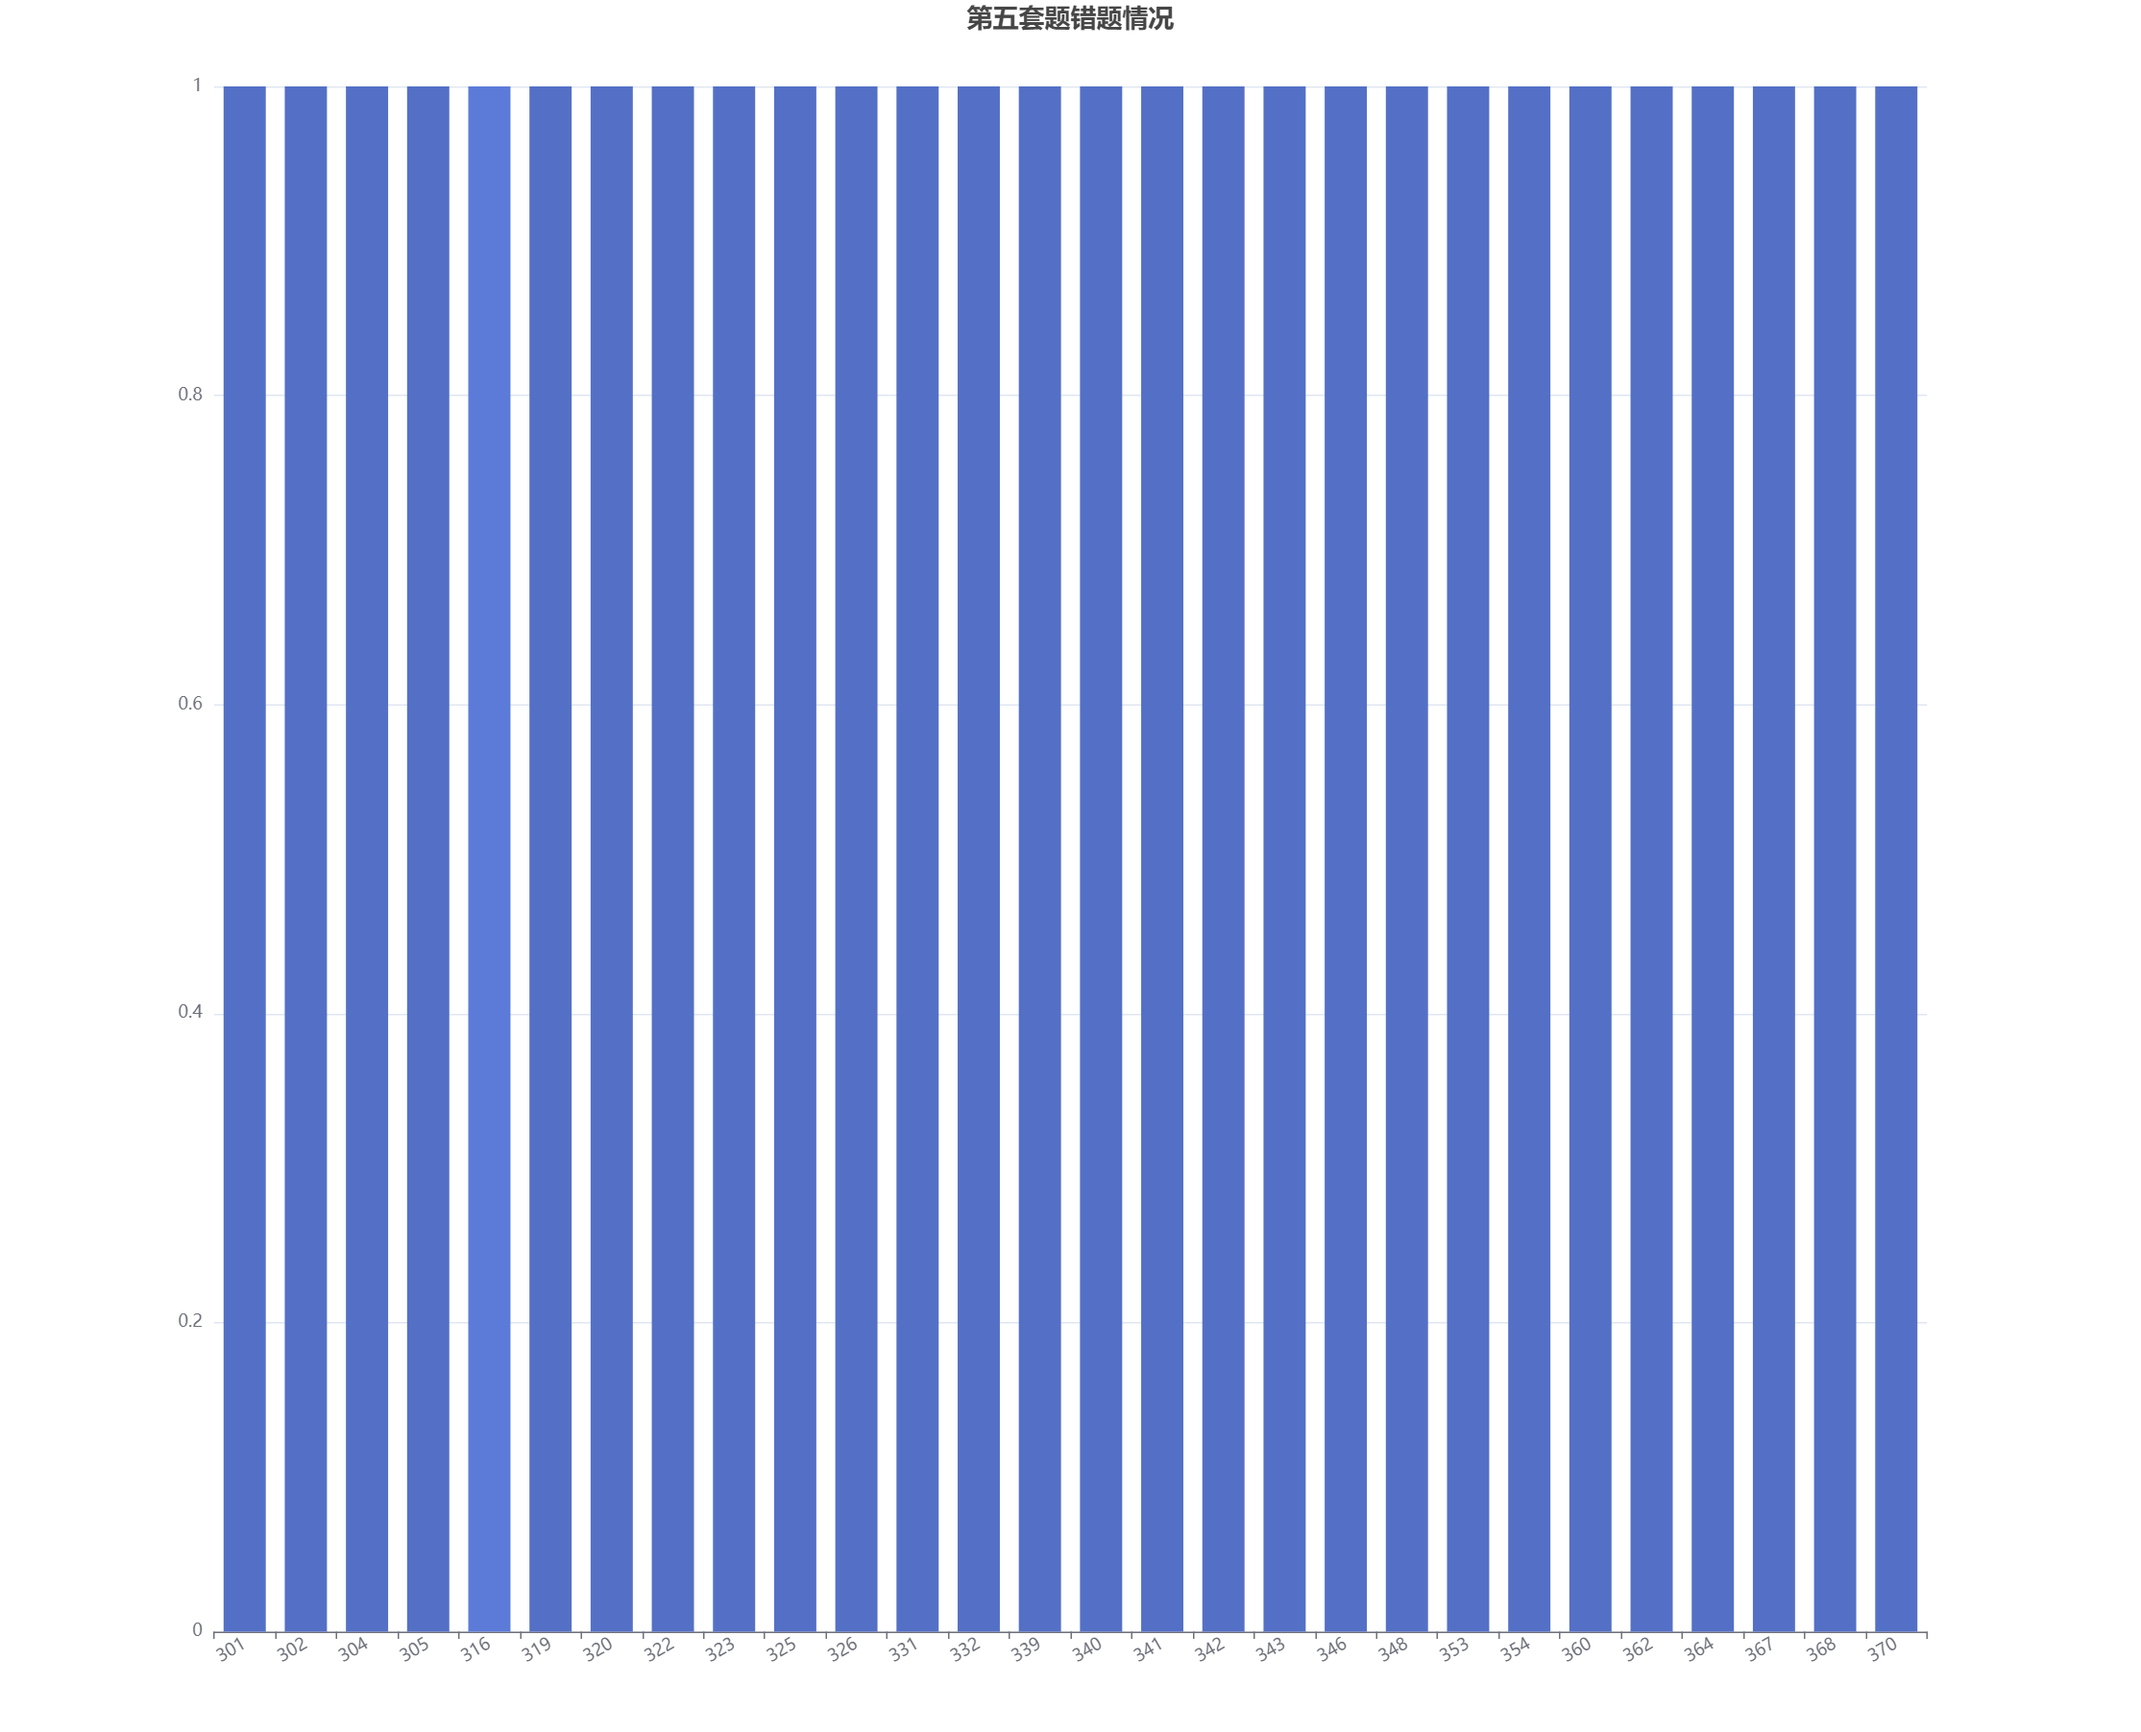
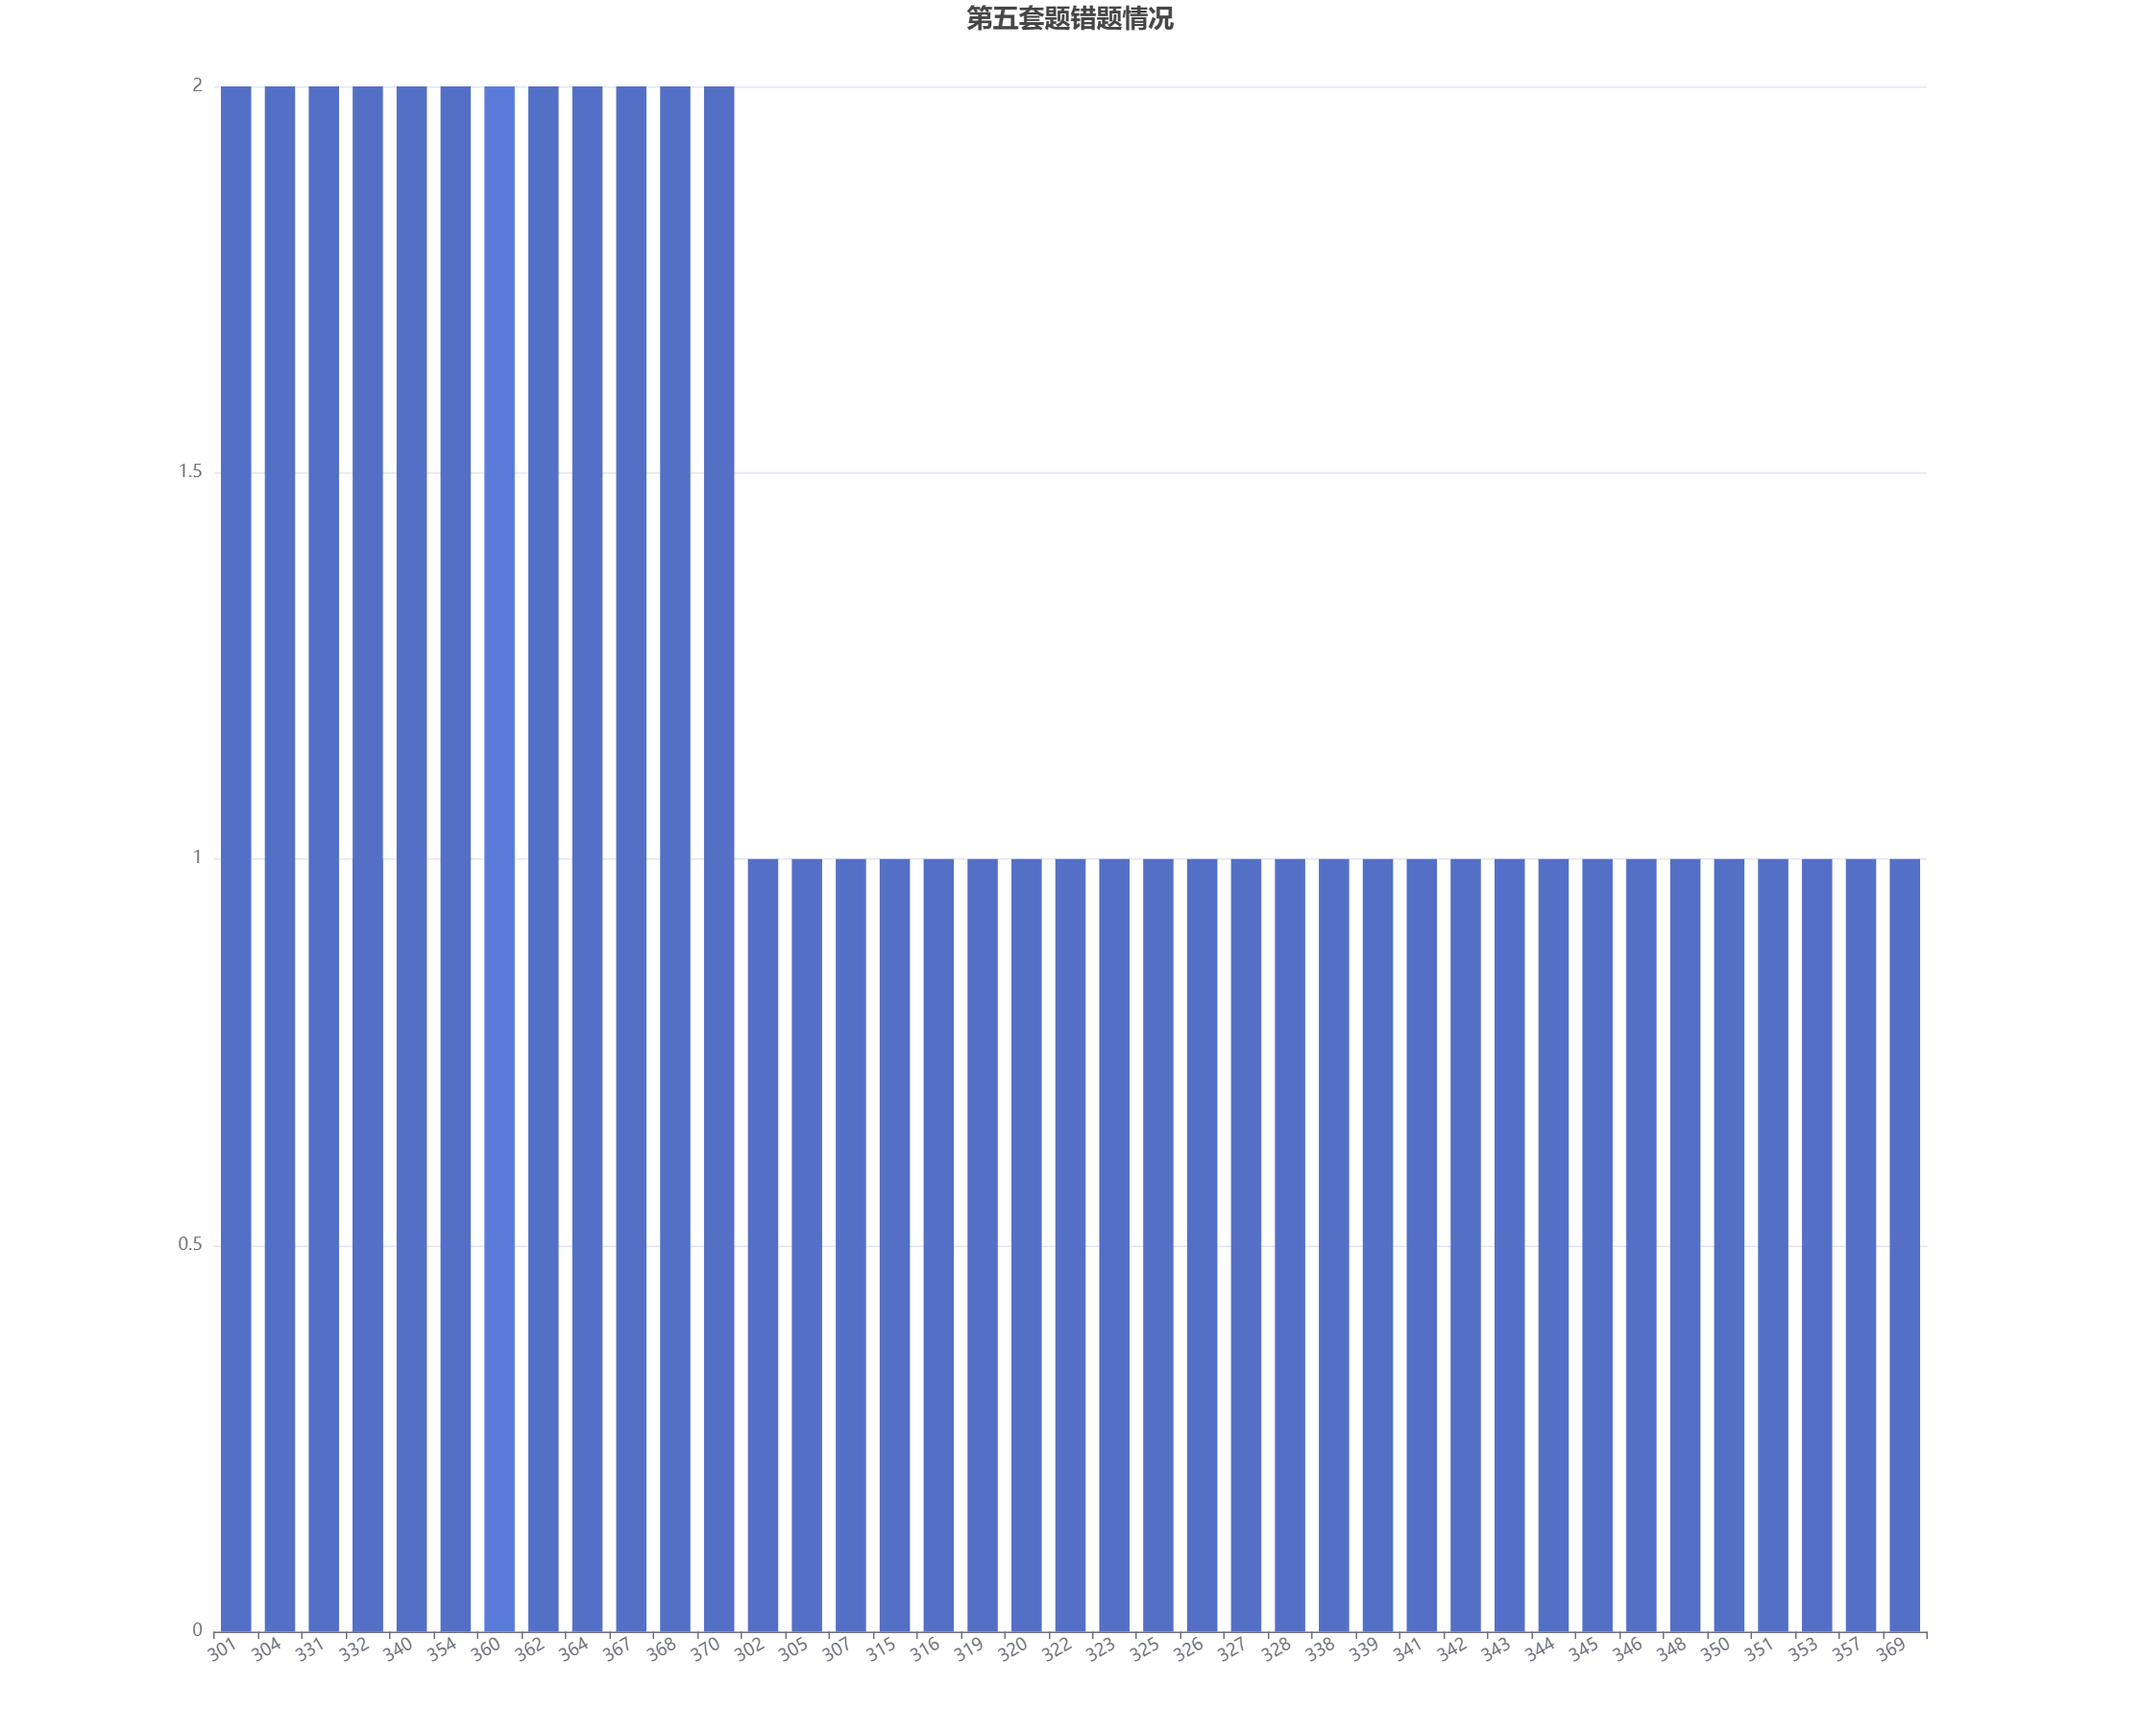
[update] daily test

diff --git a/src/testReview.js b/src/testReview.js
@@ -236,10 +236,12 @@ option = {
     {
       dimensions: ["number", "frequent"],
       source: [
-        ["301", 1],
+        ["301", 2],
         ["302", 1],
-        ["304", 1],
+        ["304", 2],
         ["305", 1],
+        ["307", 1],
+        ["315", 1],
         ["316", 1],
         ["319", 1],
         ["320", 1],
@@ -247,23 +249,33 @@ option = {
         ["323", 1],
         ["325", 1],
         ["326", 1],
-        ["331", 1],
+        ["327", 1],
+        ["328", 1],
+        ["331", 2],
+        ["332", 2],
         ["332", 1],
+        ["338", 1],
         ["339", 1],
-        ["340", 1],
+        ["340", 2],
         ["341", 1],
         ["342", 1],
         ["343", 1],
+        ["344", 1],
+        ["345", 1],
         ["346", 1],
         ["348", 1],
+        ["350", 1],
+        ["351", 1],
         ["353", 1],
-        ["354", 1],
-        ["360", 1],
-        ["362", 1],
-        ["364", 1],
-        ["367", 1],
-        ["368", 1], 
-        ["370", 1],
+        ["354", 2],
+        ["357", 1],
+        ["360", 2],
+        ["362", 2],
+        ["364", 2],
+        ["367", 2],
+        ["368", 2],
+        ["369", 1], 
+        ["370", 2],
       ],
     },
     {

diff --git a/src/dailyPractice.js b/src/dailyPractice.js
@@ -5,7 +5,7 @@ option = {
   },
   xAxis: {
     type: "category",
-    data: ["8/2", "8/4", "8/5", "8/8", "8/9", "8/10", "8/12", "8/13", "8/15", "8/18"],
+    data: ["8/2", "8/4", "8/5", "8/8", "8/9", "8/10", "8/12", "8/13", "8/15", "8/18", "8/19"],
   },
   yAxis: {
     type: "value",
@@ -15,7 +15,7 @@ option = {
   },
   series: [
     {
-      data: [84, 84, 72, 92, 66.67, 85.33, 89.33, 70.67, 93.33, 60.00],
+      data: [84, 84, 72, 92, 66.67, 85.33, 89.33, 70.67, 93.33, 60.00, 68],
       type: "line",
       markLine: {
         symbol: ["none", "none"],
